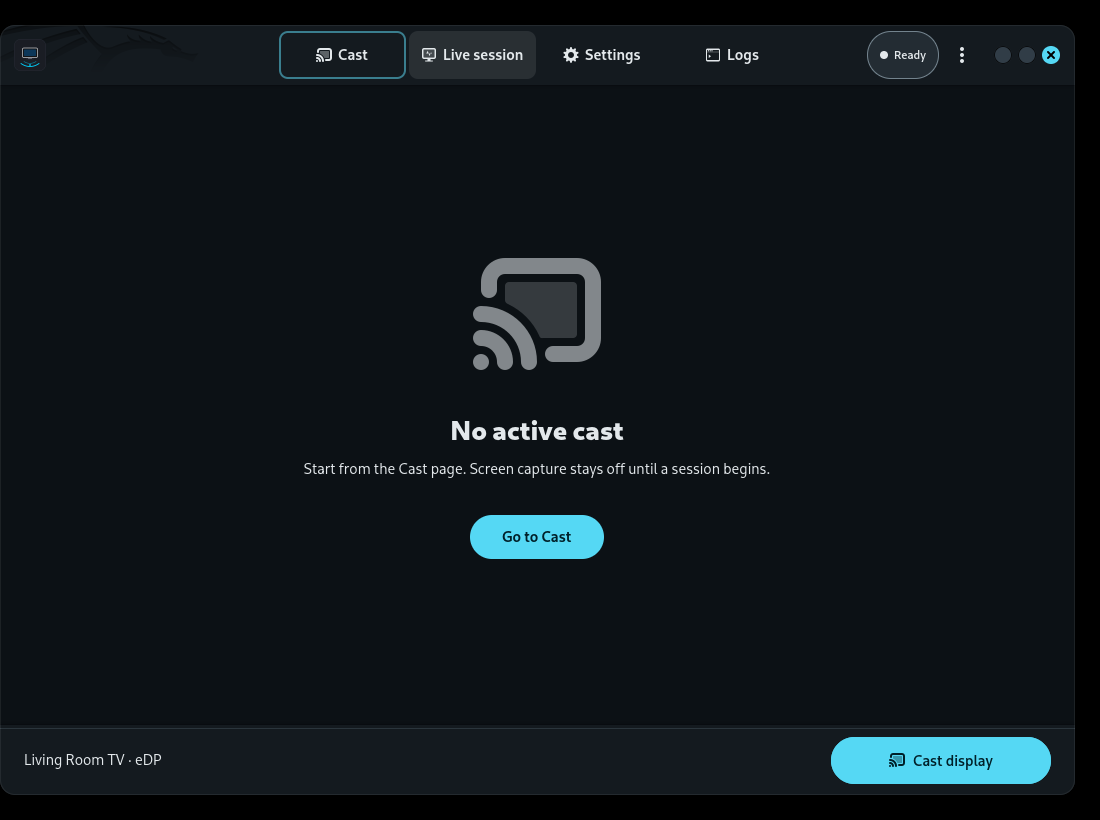
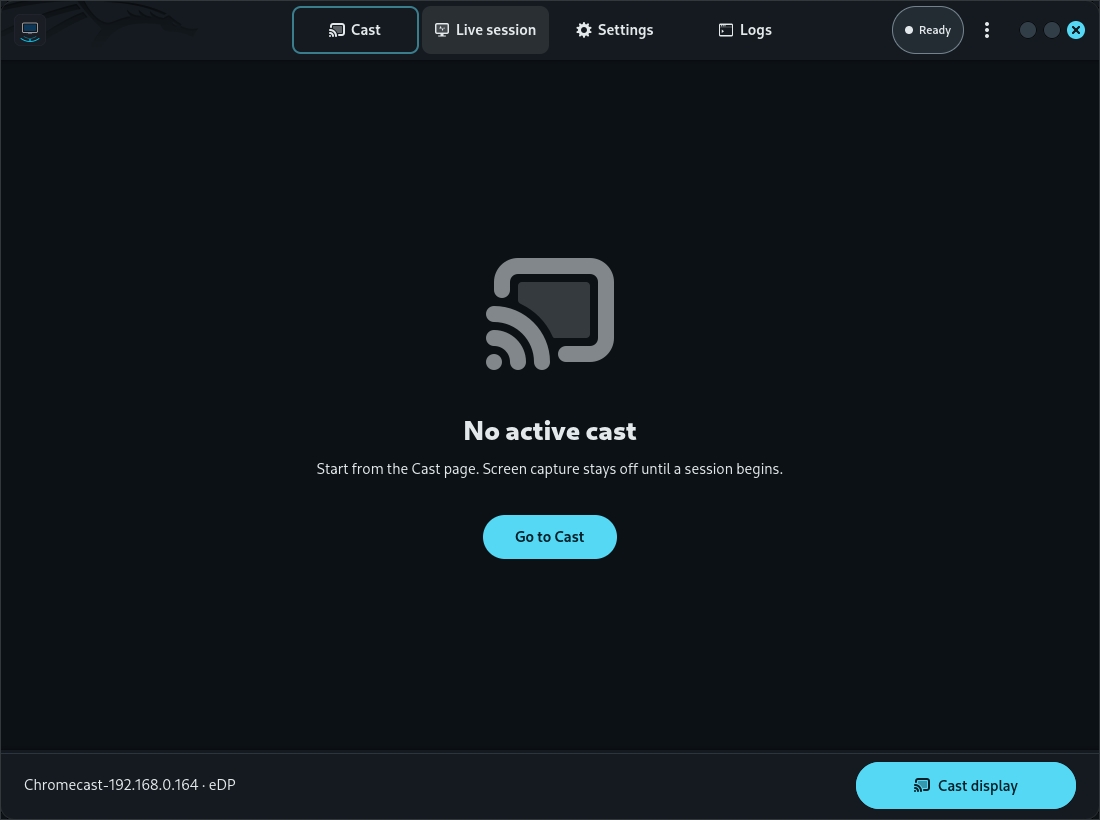
docs: add screenshots for all tabs and fix black borders

diff --git a/docs/index.html b/docs/index.html
@@ -38,7 +38,7 @@
       </div>
     </div>
     <div class="bezel">
-      <img src="assets/screenshot-ready-v2.png" alt="CastMirror GTK app in the Ready state">
+      <img src="assets/screenshot-cast.png" alt="CastMirror GTK app in the Ready state">
     </div>
   </header>
 

diff --git a/README.md b/README.md
@@ -19,7 +19,7 @@
 </p>
 
 <p align="center">
-  <img src="docs/assets/screenshot-ready-v2.png" width="720" alt="CastMirror GTK app — Cast tab">
+  <img src="docs/assets/screenshot-cast.png" width="720" alt="CastMirror GTK app — Cast tab">
 </p>
 
 ## What it is
@@ -71,18 +71,34 @@ Full package notes, firewall, and audio behavior: [docs/building.md](docs/buildi
 
 ## Usage
 
-The GUI is split into four tabs: **Cast**, **Live session**, **Settings**, and **Logs**.
+The GUI is split into four dedicated tabs:
 
-1. Start `castmirror-gui`
-2. On **Cast**, pick a device (Rescan or Add IP)
-3. Choose what to share — a **Screen** or a **Window** (toggle in the "What to share" section), then pick the specific monitor or window from the list. On Wayland the system portal picker handles selection when you press Cast
-4. Choose a quality preset and bitrate; the per-profile cap is the target the adaptive controller will hold and recover to
-5. Cast — host speakers stay quiet if audio mirroring is on (toggle audio in **Settings**)
-6. The **Live session** tab shows the pipeline, bitrate, and loss during a cast
-7. Stop restores local playback
+### 1. Cast
+Discover LAN receivers, select a monitor display or open application window, tune target bitrate, and start mirroring.
 
 <p align="center">
-  <img src="docs/assets/screenshot-live-v2.png" width="720" alt="CastMirror Live session tab — idle">
+  <img src="docs/assets/screenshot-cast.png" width="720" alt="CastMirror — Cast tab">
+</p>
+
+### 2. Live session
+Real-time streaming pipeline visualization, hardware-accelerated Cairo vector sparkline charts (FPS, Bitrate, RTT, Packet Loss), dynamic adaptive ladder rungs, and live studio controls (Freeze display, Mute TV audio).
+
+<p align="center">
+  <img src="docs/assets/screenshot-live.png" width="720" alt="CastMirror — Live session tab">
+</p>
+
+### 3. Settings
+Configure video encoding presets, target playout buffer delay, host audio mute behavior, color scheme theme (System default / Light / Dark), and run hardware/network self-test diagnostics.
+
+<p align="center">
+  <img src="docs/assets/screenshot-settings.png" width="720" alt="CastMirror — Settings tab">
+</p>
+
+### 4. Logs
+Live searchable diagnostic event logs with filter levels, quick copy, and open log directory actions.
+
+<p align="center">
+  <img src="docs/assets/screenshot-logs.png" width="720" alt="CastMirror — Logs tab">
 </p>
 
 CLI:
